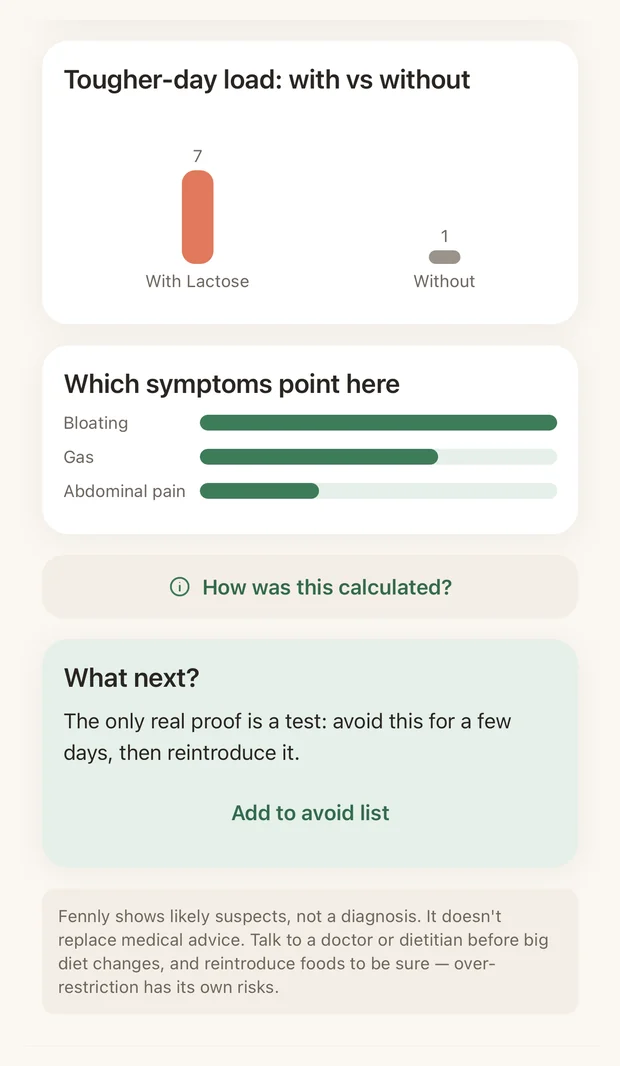
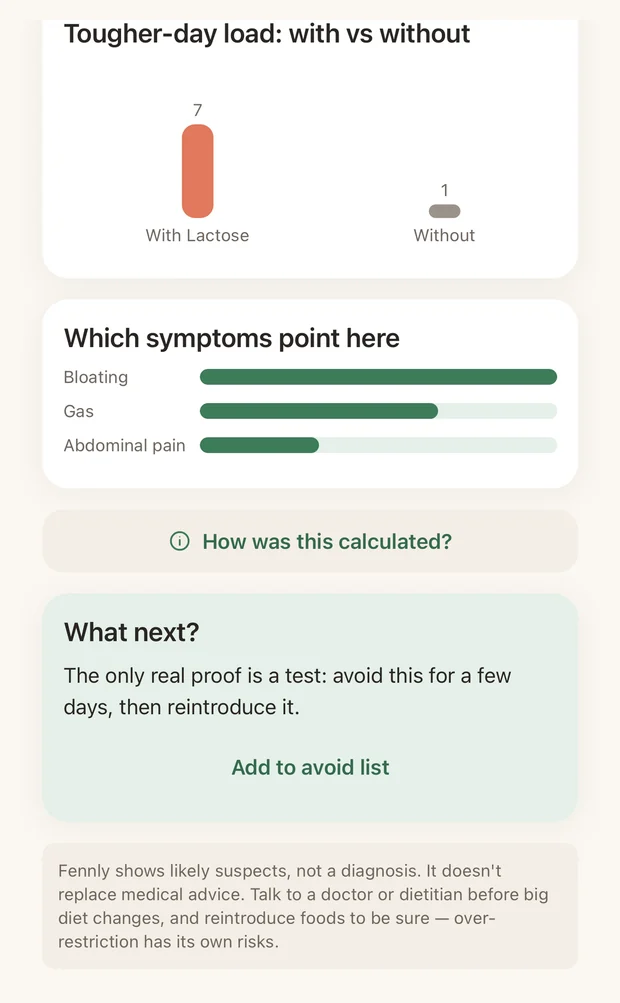
landing: cropped screenshots, tuned image sizing

diff --git a/index.html b/index.html
@@ -174,7 +174,7 @@
       </div>
       <p class="trust"><b>Free to download.</b> Your data stays in the EU. Delete it any time.</p>
     </div>
-    <div class="hero-shot"><img src="assets/suspects.webp?v=2" alt="Fennly showing ranked suspected food triggers, with lactose at the top" width="620" height="829" fetchpriority="high"></div>
+    <div class="hero-shot"><img src="assets/suspects.webp?v=3" alt="Fennly showing ranked suspected food triggers, with lactose at the top" width="620" height="841" fetchpriority="high"></div>
   </div>
 
   <section>
@@ -187,19 +187,19 @@
         <div class="num">1</div>
         <h3>Snap your meal</h3>
         <p>Fennly recognises the dish and splits it into ingredients with their trigger categories. It knows a pizza is dough, cheese and tomato.</p>
-        <img src="assets/capture.webp?v=2" alt="Meal photo broken down into detected ingredients" loading="lazy" width="620" height="1046">
+        <img src="assets/capture.webp?v=3" alt="Meal photo broken down into detected ingredients" loading="lazy" width="620" height="1051">
       </div>
       <div class="step">
         <div class="num">2</div>
         <h3>Say how you feel</h3>
         <p>Ten seconds in the evening. Bloating, cramps, fatigue, headache, skin. Or an acute entry the moment it hits.</p>
-        <img src="assets/log.webp?v=2" alt="Logging options: photo, voice, text, evening recap, acute entry" loading="lazy" width="620" height="689">
+        <img src="assets/log.webp?v=3" alt="Logging options: photo, voice, text, evening recap, acute entry" loading="lazy" width="620" height="683">
       </div>
       <div class="step">
         <div class="num">3</div>
         <h3>Meet your suspects</h3>
         <p>After a few days Fennly ranks what is statistically most likely behind your symptoms, with a confidence score for each.</p>
-        <img src="assets/suspects.webp?v=2" alt="Ranked list of suspected triggers with confidence scores" loading="lazy" width="620" height="829">
+        <img src="assets/suspects.webp?v=3" alt="Ranked list of suspected triggers with confidence scores" loading="lazy" width="620" height="841">
       </div>
     </div>
   </section>
@@ -225,10 +225,10 @@
         <h2>A hunch is not an answer. So Fennly tests it.</h2>
         <p>When a suspect is strong enough, Fennly walks you through a proper elimination and reintroduction test: cut it for a set window, then bring it back, and read the verdict. That is the same method a dietitian would use, minus the paperwork.</p>
       </div>
-      <img src="assets/test.webp?v=2" alt="Guided elimination test for lactose over seven days" loading="lazy" width="620" height="1047">
+      <img src="assets/test.webp?v=3" alt="Guided elimination test for lactose over seven days" loading="lazy" width="620" height="506">
     </div>
     <div class="split">
-      <img src="assets/withwithout.webp?v=2" alt="Comparison of symptom load on days with and without a suspected trigger" loading="lazy" width="620" height="1066">
+      <img src="assets/withwithout.webp?v=3" alt="Comparison of symptom load on days with and without a suspected trigger" loading="lazy" width="620" height="1003">
       <div class="txt">
         <h2>See the difference, do not just feel it</h2>
         <p>Days with the suspect against days without, side by side. It is the moment most people stop guessing, and the chart you can hand to your doctor instead of trying to remember what you ate three Tuesdays ago.</p>
@@ -300,7 +300,7 @@
       </div>
       <p class="trust"><b>Kostenlos laden.</b> Deine Daten liegen in der EU. Jederzeit löschbar.</p>
     </div>
-    <div class="hero-shot"><img src="assets/suspects.webp?v=2" alt="Fennly zeigt die wahrscheinlichsten Auslöser, ganz oben Laktose" width="620" height="829"></div>
+    <div class="hero-shot"><img src="assets/suspects.webp?v=3" alt="Fennly zeigt die wahrscheinlichsten Auslöser, ganz oben Laktose" width="620" height="841"></div>
   </div>
 
   <section>
@@ -313,19 +313,19 @@
         <div class="num">1</div>
         <h3>Mahlzeit fotografieren</h3>
         <p>Fennly erkennt das Gericht und zerlegt es in Zutaten mit ihren Auslöser-Kategorien. Es weiß, dass eine Pizza aus Teig, Käse und Tomate besteht.</p>
-        <img src="assets/capture.webp?v=2" alt="Foto einer Mahlzeit, aufgeschlüsselt in erkannte Zutaten" loading="lazy" width="620" height="1046">
+        <img src="assets/capture.webp?v=3" alt="Foto einer Mahlzeit, aufgeschlüsselt in erkannte Zutaten" loading="lazy" width="620" height="1051">
       </div>
       <div class="step">
         <div class="num">2</div>
         <h3>Befinden erfassen</h3>
         <p>Zehn Sekunden am Abend. Blähbauch, Krämpfe, Müdigkeit, Kopfschmerzen, Haut. Oder ein Akuteintrag genau dann, wenn es losgeht.</p>
-        <img src="assets/log.webp?v=2" alt="Erfassungsoptionen: Foto, Sprache, Text, Abend-Rückblick, Akuteintrag" loading="lazy" width="620" height="689">
+        <img src="assets/log.webp?v=3" alt="Erfassungsoptionen: Foto, Sprache, Text, Abend-Rückblick, Akuteintrag" loading="lazy" width="620" height="683">
       </div>
       <div class="step">
         <div class="num">3</div>
         <h3>Verdächtige ansehen</h3>
         <p>Nach ein paar Tagen zeigt dir Fennly, was statistisch am ehesten hinter deinen Beschwerden steckt, mit einem Sicherheitswert pro Verdacht.</p>
-        <img src="assets/suspects.webp?v=2" alt="Rangliste der verdächtigen Auslöser mit Sicherheitswerten" loading="lazy" width="620" height="829">
+        <img src="assets/suspects.webp?v=3" alt="Rangliste der verdächtigen Auslöser mit Sicherheitswerten" loading="lazy" width="620" height="841">
       </div>
     </div>
   </section>
@@ -351,10 +351,10 @@
         <h2>Eine Vermutung ist keine Antwort. Also testet Fennly sie.</h2>
         <p>Wenn ein Verdacht stark genug ist, führt dich Fennly durch einen richtigen Eliminations- und Wiedereinführungstest: für einen festen Zeitraum weglassen, dann zurückholen, Ergebnis ablesen. Dieselbe Methode wie in der Ernährungsberatung, nur ohne Zettelwirtschaft.</p>
       </div>
-      <img src="assets/test.webp?v=2" alt="Geführter Eliminationstest für Laktose über sieben Tage" loading="lazy" width="620" height="1047">
+      <img src="assets/test.webp?v=3" alt="Geführter Eliminationstest für Laktose über sieben Tage" loading="lazy" width="620" height="506">
     </div>
     <div class="split">
-      <img src="assets/withwithout.webp?v=2" alt="Vergleich der Beschwerden an Tagen mit und ohne den verdächtigen Auslöser" loading="lazy" width="620" height="1066">
+      <img src="assets/withwithout.webp?v=3" alt="Vergleich der Beschwerden an Tagen mit und ohne den verdächtigen Auslöser" loading="lazy" width="620" height="1003">
       <div class="txt">
         <h2>Den Unterschied sehen, nicht nur ahnen</h2>
         <p>Tage mit dem Verdächtigen gegen Tage ohne, direkt nebeneinander. Das ist der Moment, in dem die meisten aufhören zu raten. Und die Grafik, die du deiner Ärztin zeigen kannst, statt zu rekonstruieren, was du vor drei Dienstagen gegessen hast.</p>
